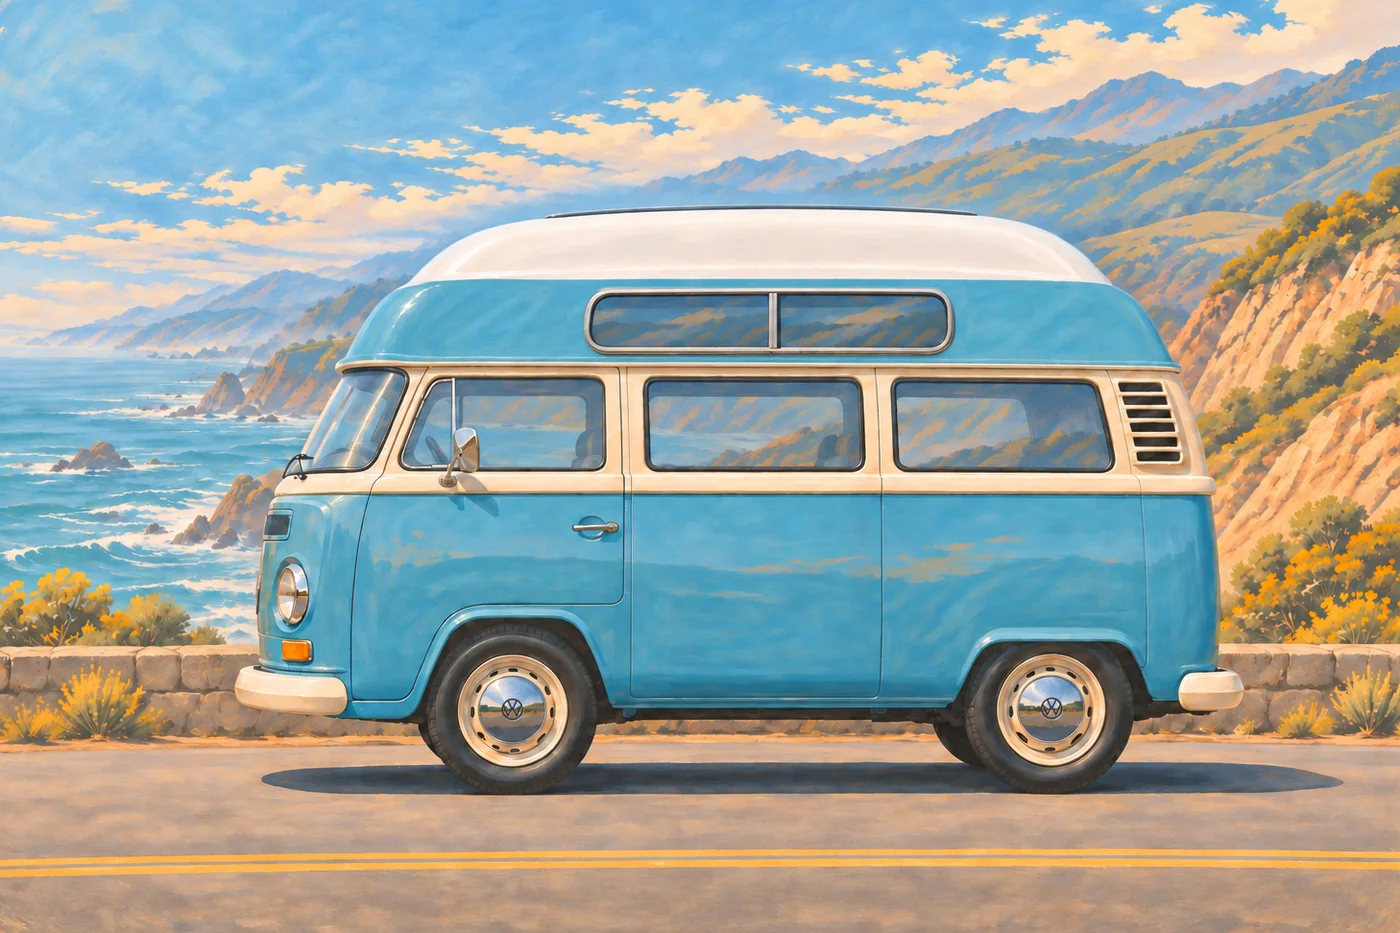
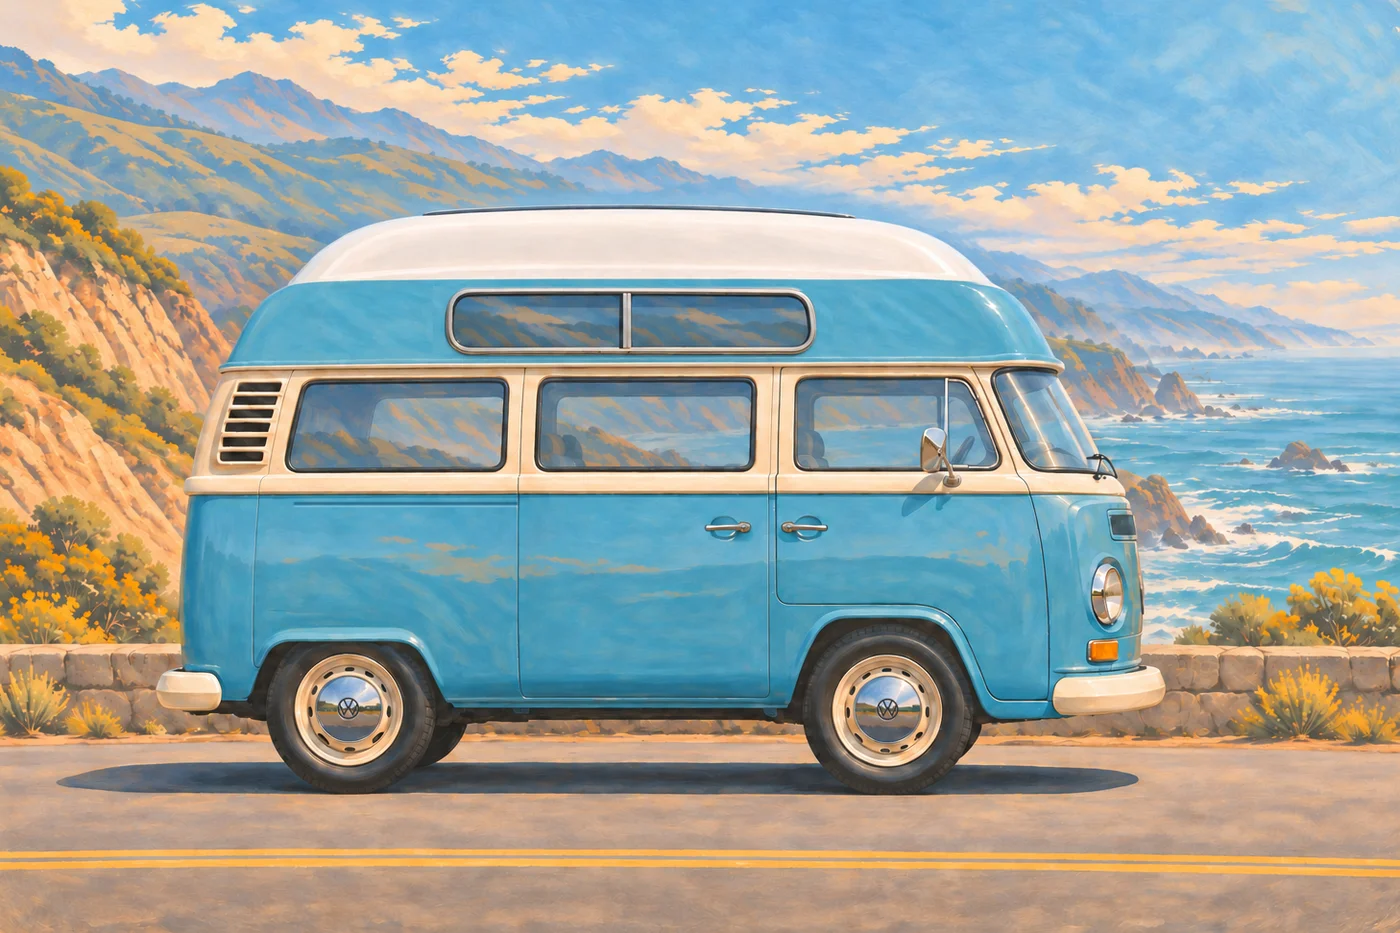
T2: passenger side, facing the T3, with sliding door

diff --git a/index.html b/index.html
@@ -255,7 +255,7 @@ footer .ig{color:var(--cyan);font-weight:800;text-decoration:none;letter-spacing
       <p class="lede">Your escape pod, built and ready to go.</p>
     </div>
     <div class="tk">
-      <article class="tkc rise"><img width="1400" height="933" src="img/tk-t2-hightop.webp" alt="Painted side view of a blue and cream T2 high-top bus with flush integrated solar on the roof" loading="lazy"><h3 class="d">T2 Hightop</h3><p>Pop the side door. Stand up inside. Stay a while.</p></article>
+      <article class="tkc rise"><img width="1400" height="933" src="img/tk-t2-hightop.webp" alt="Painted passenger side view of a blue and cream T2 high-top bus with flush integrated solar on the roof" loading="lazy"><h3 class="d">T2 Hightop</h3><p>Pop the side door. Stand up inside. Stay a while.</p></article>
       <article class="tkc rise"><img width="1400" height="933" src="img/tk-t3-2wd.webp" alt="Painted side view of a light blue T3 Westfalia with flush integrated solar on the roof" loading="lazy"><h3 class="d">T3 Westfalia</h3><p>Pop the top. Point it at the coast. Sleep where the road ends.</p></article>
     </div>
     <div class="tkspec rise">
